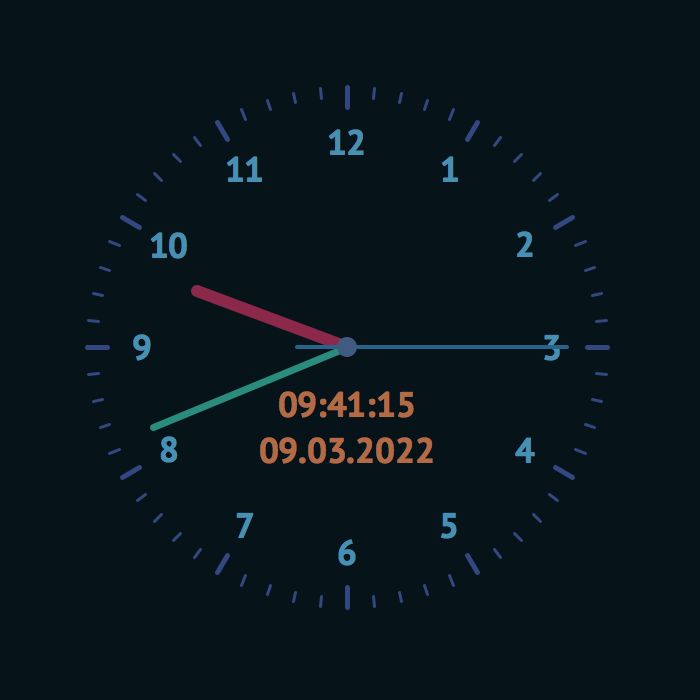
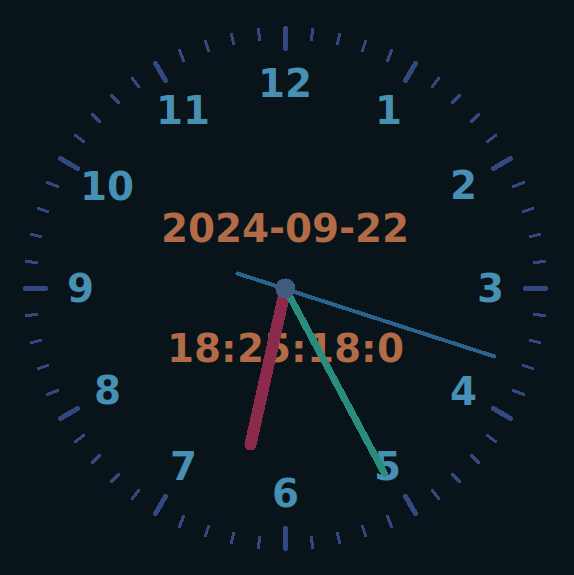
new version

diff --git a/analog_clock.py b/analog_clock.py
@@ -1,21 +1,19 @@
-import tkinter
+import datetime
 import math
 import time
+import tkinter
 
-canvas_size = 700
+canvas_size: int = 700
+radius: int = 250
+angle: int = 270
 canvas = tkinter.Canvas(bg="#08141a", width=canvas_size, height=canvas_size)
 canvas.pack()
-
-radius = 250
-angle = 270
-
-elements = [0 for _ in range(5)]
+elements: list = []
 
 
 def calculate(_angle, _radius):
-    x = math.cos(math.radians(_angle)) * _radius + canvas_size / 2
-    y = math.sin(math.radians(_angle)) * _radius + canvas_size / 2
-
+    x = math.cos(math.radians(_angle)) * _radius + canvas_size / 2.0
+    y = math.sin(math.radians(_angle)) * _radius + canvas_size / 2.0
     return x, y
 
 
@@ -24,41 +22,43 @@ def line(_x1, _y1, _x2, _y2, _width, _color):
 
 
 def line_from_center(_x, _y, _width, _color):
-    return line(canvas_size / 2, canvas_size / 2, _x, _y, _width, _color)
+    return line(canvas_size // 2, canvas_size // 2, _x, _y, _width, _color)
 
 
 def text(_x, _y, _text, _color):
-    return canvas.create_text(_x, _y, text=_text, fill=_color, font=("PT Sans", 35, "bold"),
-                              justify="center")
+    return canvas.create_text(_x, _y, text=_text, fill=_color, font=("PT Sans", 35, "bold"), justify="center")
 
 
-def draw(elements):
+def draw():
     for element in elements:
         canvas.delete(element)
 
-    tm = time.localtime()
+    dt_now = datetime.datetime.now()
 
     # Digital time
-    digital_time = time.strftime('%H:%M:%S\n%d.%m.%Y', tm)
-    elements[0] = text(canvas_size / 2, canvas_size / 2 + 80, digital_time, "#b36b47")
+    tenth: int = dt_now.microsecond // int(1e5)
+    iso_date: str = dt_now.strftime('%F')
+    elements.append(text(canvas_size / 2, canvas_size / 2 - 60, iso_date, "#b36b47"))
+    digital_time: str = dt_now.strftime('%H:%M:%S') + f':{tenth:1d}'
+    elements.append(text(canvas_size / 2, canvas_size / 2 + 60, digital_time, "#b36b47"))
 
     # Hour hand
-    x, y = calculate((360 / 12) * tm[3] + (360 / 12 / 60) * tm[4] - 90, radius - 90)
-    elements[1] = line_from_center(x, y, 12, "#8c2a4b")
+    x, y = calculate((360 / 12.0) * dt_now.hour + (360 // 12 / 60.0) * dt_now.minute - 90, radius - 90)
+    elements.append(line_from_center(x, y, 12, "#8c2a4b"))
 
     # Minute hand
-    x, y = calculate((360 / 60) * tm[4] + (360 / 60 / 60) * tm[5] - 90, radius - 40)
-    elements[2] = line_from_center(x, y, 7, "#2a8c7c")
+    x, y = calculate((360 / 60.0) * dt_now.minute + (360 // 60 / 60.0) * dt_now.second - 90, radius - 40)
+    elements.append(line_from_center(x, y, 7, "#2a8c7c"))
 
     # Second hand
-    x1, y1 = calculate((360 / 60) * tm[5] + 90, radius - 200)
-    x2, y2 = calculate((360 / 60) * tm[5] - 90, radius - 30)
-    elements[3] = line(x1, y1, x2, y2, 4, "#2a638c")
+    x1, y1 = calculate((360 // 60) * dt_now.second + 90.0, radius - 200)
+    x2, y2 = calculate((360 // 60) * dt_now.second - 90.0, radius - 30)
+    elements.append(line(x1, y1, x2, y2, 4, "#2a638c"))
 
     # Small circle in center
-    elements[4] = canvas.create_oval(canvas_size / 2 - 10, canvas_size / 2 - 10,
-                                     canvas_size / 2 + 10, canvas_size / 2 + 10, fill="#405b80",
-                                     width=0)
+    elements.append(
+        canvas.create_oval(canvas_size / 2 - 10, canvas_size / 2 - 10, canvas_size / 2 + 10, canvas_size / 2 + 10,
+            fill="#405b80", width=0))
 
     return elements
 
@@ -66,8 +66,7 @@ def draw(elements):
 for i in range(12):
     x, y = calculate(angle + 30, radius - 45)
     text(x, y, i + 1, "#478fb3")
-
-    angle += 360 / 12
+    angle += 360 // 12
 
 for i in range(60):
     if i % 5 == 0:
@@ -79,9 +78,10 @@ for i in range(60):
 
     x2, y2 = calculate(angle + 30, radius + 10)
     line(x1, y1, x2, y2, width, "#334780")
-
     angle += 360 / 60
 
+
 while True:
-    elements = draw(elements)
+    draw()
     canvas.update()
+    time.sleep(0.02)

diff --git a/README.md b/README.md
@@ -16,3 +16,8 @@ To start the app, download or clone this repository, and in the folder you downl
 ```
 $ python analog_clock.py
 ```
+
+## Code
+Forked from https://github.com/BelKed/analog-clock 
+Added tenth of seconds and wait timer.
+
